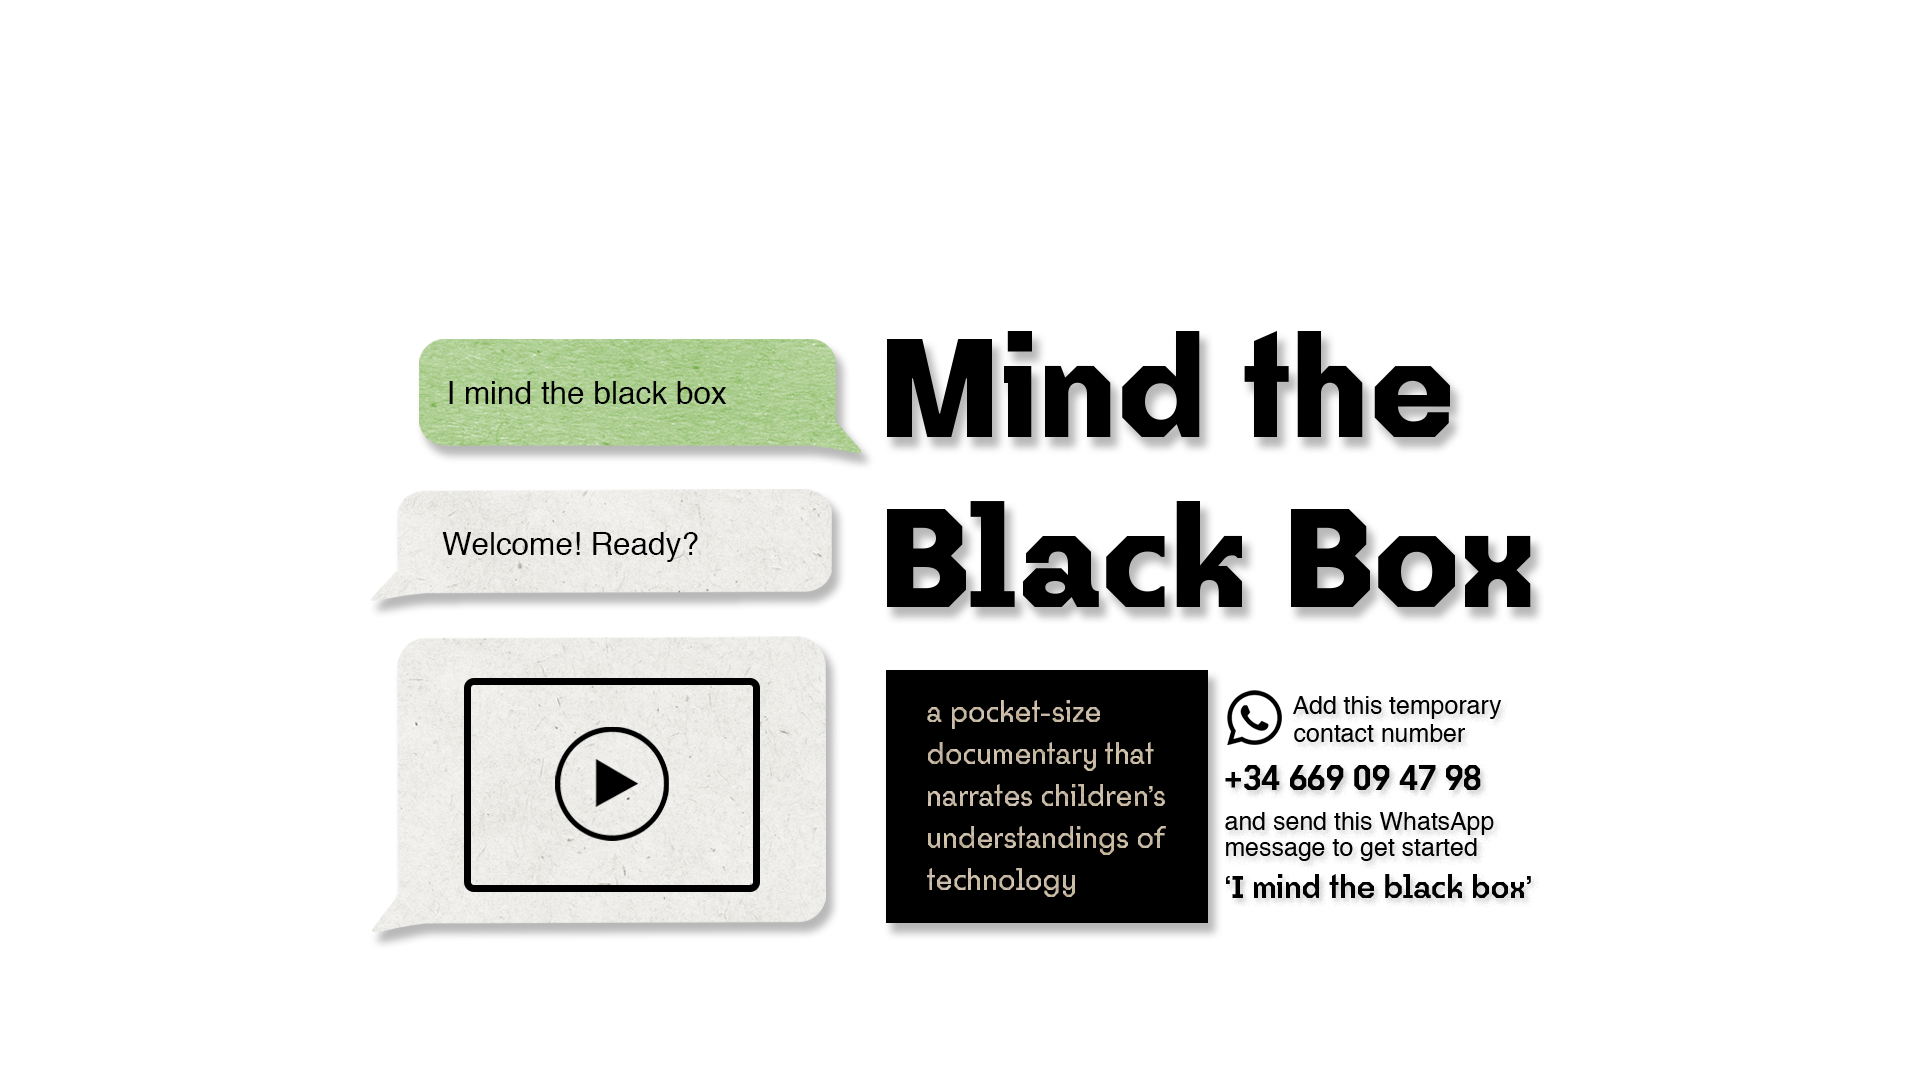
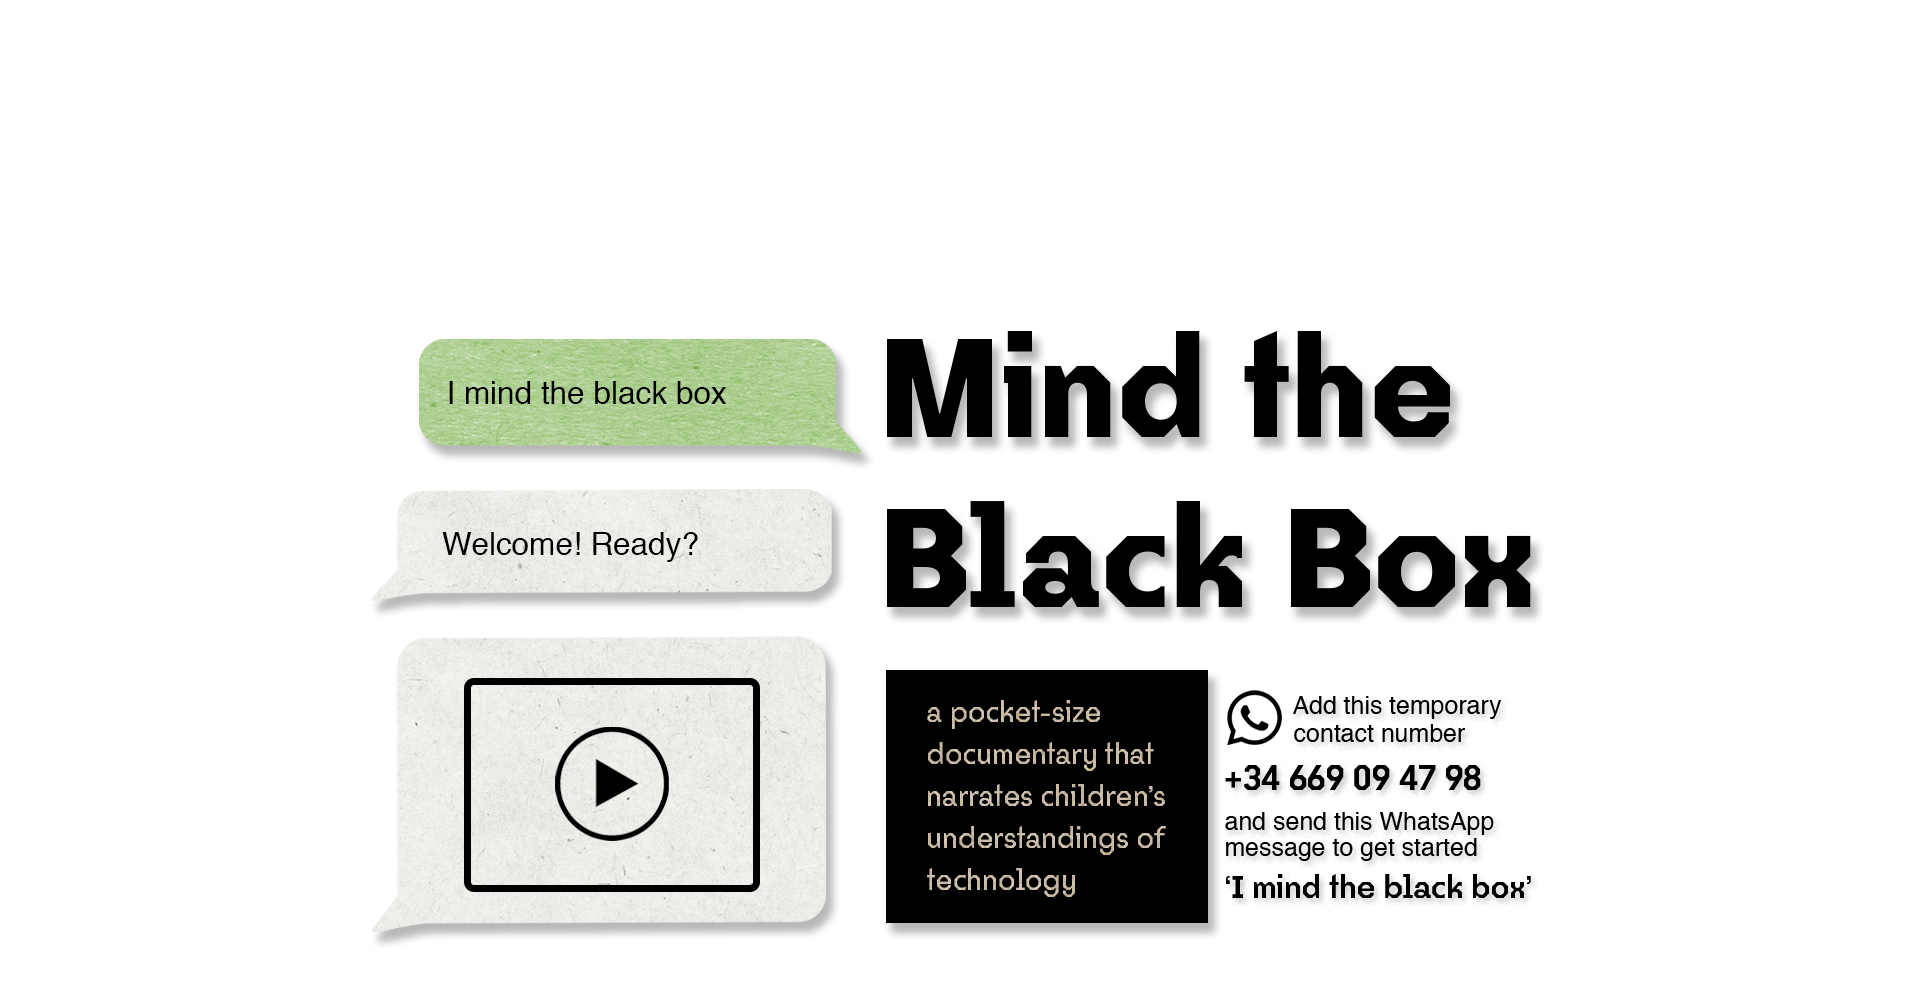
fixes

Changed region(s): [[0.1875, 0.3116, 0.8125, 0.9658]]

diff --git a/teaser.html b/teaser.html
@@ -50,6 +50,7 @@
       flex-direction: row;
       justify-content: space-around;
       margin-bottom: 100px;
+            margin-top: 30px;
       width: 50%;
     }
 
@@ -82,7 +83,7 @@
       font-size: 25px;
       font-weight: bold;
       background-color: transparent;
-      text-shadow: 0 3px 3px rgb(60, 60, 60, 0.6);
+      /* text-shadow: 0 3px 3px rgb(60, 60, 60, 0.6); */
       text-align: center;
     }
 

diff --git a/about.html b/about.html
@@ -50,6 +50,7 @@
       flex-direction: row;
       justify-content: space-around;
       margin-bottom: 100px;
+      margin-top: 30px;
       width: 50%;
     }
 
@@ -77,7 +78,7 @@
       font-size: 25px;
       font-weight: bold;
       background-color: transparent;
-      text-shadow: 0 3px 3px rgb(60, 60, 60, 0.6);
+      /* text-shadow: 0 3px 3px rgb(60, 60, 60, 0.6); */
       text-align: center;
     }
 

diff --git a/credits.html b/credits.html
@@ -81,7 +81,7 @@
       font-size: 25px;
       font-weight: bold;
       background-color: transparent;
-      text-shadow: 0 3px 3px rgb(60, 60, 60, 0.6);
+      /* text-shadow: 0 3px 3px rgb(60, 60, 60, 0.6); */
       text-align: center;
     }
 

diff --git a/index.html b/index.html
@@ -46,7 +46,7 @@
       display: flex;
       flex-direction: row;
       justify-content: space-around;
-      margin-bottom: 100px;
+      margin-bottom: 150px;
       width: 50%;
     }
 
